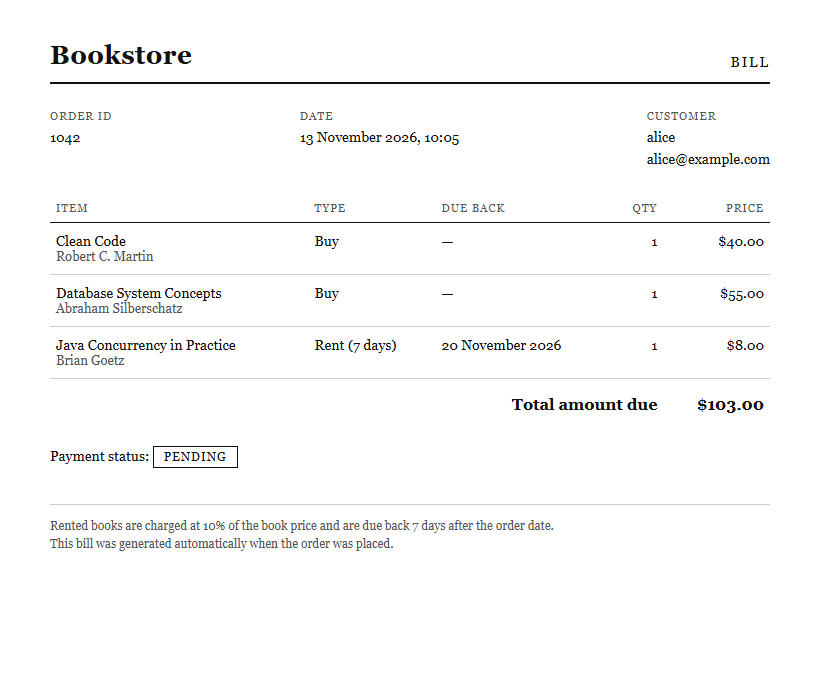
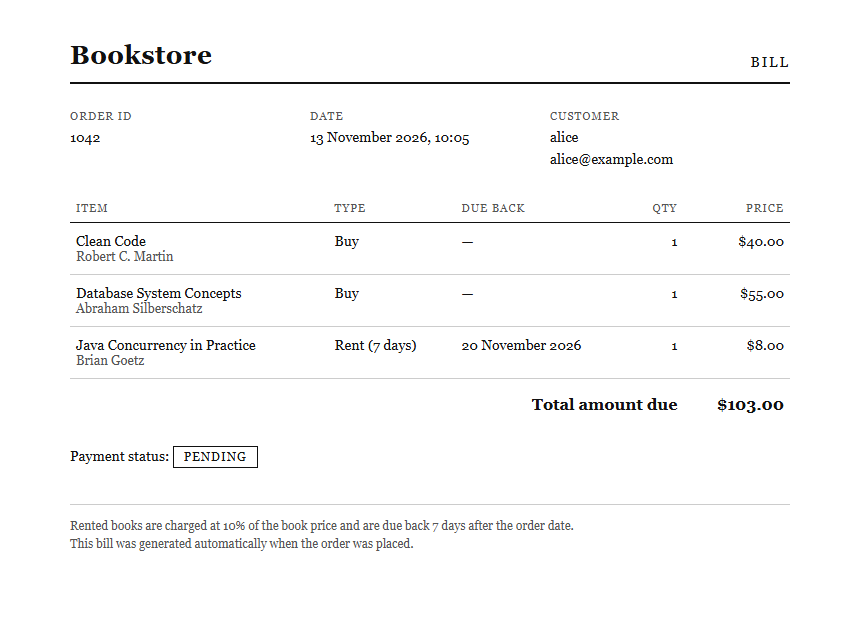
Fix the bill layout for mail programs (P-016)
The first real bill email arrived in Gmail with the heading and the order details collapsed and the typeface lost: Gmail ignores flex layout and styles on body. The bill now lays those out with tables and styles a wrapper. A test fails if either comes back. The design sample is now produced by the service's own renderer.

Verified: 88 tests pass; the bill looks right in a browser (docs/02-design/bill/bill-sample.png); a second real email was accepted by Gmail. Not verified: how it looks in the inbox.

diff --git a/docs/02-design/bill/bill-sample.html b/docs/02-design/bill/bill-sample.html
@@ -4,37 +4,40 @@
 <meta charset="utf-8">
 <title>Bill — Order 1042</title>
 <style>
-  body { font-family: Georgia, "Times New Roman", serif; color: #111; max-width: 720px; margin: 40px auto; padding: 0 24px; }
-  header { display: flex; justify-content: space-between; align-items: flex-end; border-bottom: 2px solid #111; padding-bottom: 12px; }
-  h1 { font-size: 26px; margin: 0; letter-spacing: 0.5px; }
-  .doc { font-size: 14px; text-transform: uppercase; letter-spacing: 2px; }
-  .meta { display: flex; justify-content: space-between; margin: 24px 0; font-size: 14px; line-height: 1.6; }
-  .meta strong { display: block; font-size: 11px; text-transform: uppercase; letter-spacing: 1px; color: #555; font-weight: normal; }
+  body { margin: 0; }
+  .bill { font-family: Georgia, "Times New Roman", serif; color: #111; max-width: 720px; margin: 40px auto; padding: 0 24px; }
   table { width: 100%; border-collapse: collapse; font-size: 14px; }
-  th { text-align: left; font-size: 11px; text-transform: uppercase; letter-spacing: 1px; color: #555; font-weight: normal; border-bottom: 1px solid #111; padding: 8px 6px; }
-  td { padding: 10px 6px; border-bottom: 1px solid #ccc; vertical-align: top; }
-  .num { text-align: right; white-space: nowrap; }
+  .head td { border-bottom: 2px solid #111; padding: 0 0 12px; vertical-align: bottom; }
+  h1 { font-size: 26px; margin: 0; letter-spacing: 0.5px; }
+  .doc { font-size: 14px; text-transform: uppercase; letter-spacing: 2px; text-align: right; }
+  .meta td { width: 33%; padding: 24px 12px 24px 0; line-height: 1.6; vertical-align: top; }
+  .meta strong { display: block; font-size: 11px; text-transform: uppercase; letter-spacing: 1px; color: #555; font-weight: normal; }
+  .items th { text-align: left; font-size: 11px; text-transform: uppercase; letter-spacing: 1px; color: #555; font-weight: normal; border-bottom: 1px solid #111; padding: 8px 6px; }
+  .items td { padding: 10px 6px; border-bottom: 1px solid #ccc; vertical-align: top; }
+  .items .num { text-align: right; white-space: nowrap; }
   .author { color: #555; font-size: 13px; }
-  tfoot td { border-bottom: none; font-size: 16px; font-weight: bold; padding-top: 16px; }
+  .items tfoot td { border-bottom: none; font-size: 16px; font-weight: bold; padding-top: 16px; }
   .status { margin-top: 24px; font-size: 14px; }
   .status span { border: 1px solid #111; padding: 3px 10px; text-transform: uppercase; letter-spacing: 1px; font-size: 12px; }
-  footer { margin-top: 40px; padding-top: 12px; border-top: 1px solid #ccc; font-size: 12px; color: #555; line-height: 1.5; }
-  @media print { body { margin: 0 auto; } }
+  .foot { margin-top: 40px; padding-top: 12px; border-top: 1px solid #ccc; font-size: 12px; color: #555; line-height: 1.5; }
+  @media print { .bill { margin: 0 auto; } }
 </style>
 </head>
 <body>
-  <header>
-    <h1>Bookstore</h1>
-    <div class="doc">Bill</div>
-  </header>
+<div class="bill">
+  <table class="head">
+    <tr><td><h1>Bookstore</h1></td><td class="doc">Bill</td></tr>
+  </table>
 
-  <div class="meta">
-    <div><strong>Order ID</strong>1042</div>
-    <div><strong>Date</strong>13 November 2026, 10:05</div>
-    <div><strong>Customer</strong>alice<br>alice@example.com</div>
-  </div>
+  <table class="meta">
+    <tr>
+      <td><strong>Order ID</strong>1042</td>
+      <td><strong>Date</strong>13 November 2026, 10:05</td>
+      <td><strong>Customer</strong>alice<br>alice@example.com</td>
+    </tr>
+  </table>
 
-  <table>
+  <table class="items">
     <thead>
       <tr><th>Item</th><th>Type</th><th>Due back</th><th class="num">Qty</th><th class="num">Price</th></tr>
     </thead>
@@ -50,9 +53,10 @@
 
   <p class="status">Payment status: <span>Pending</span></p>
 
-  <footer>
+  <div class="foot">
     Rented books are charged at 10% of the book price and are due back 7 days after the order date.<br>
     This bill was generated automatically when the order was placed.
-  </footer>
+  </div>
+</div>
 </body>
 </html>

diff --git a/services/order-service/order_service/bill.py b/services/order-service/order_service/bill.py
@@ -26,23 +26,27 @@ BILLS_FOLDER = "bills"
 # Written out, so the bill is in English whatever language Windows is set to.
 _MONTHS = ("January", "February", "March", "April", "May", "June", "July", "August", "September", "October", "November", "December")
 
+# The bill is also the body of an email, and mail programs show less than a browser does:
+# Gmail drops flex layout and any style placed on <body> (problem P-016). So the page's own
+# styles sit on a wrapper (.bill), and anything placed side by side is a table.
 _STYLE = """
-  body { font-family: Georgia, "Times New Roman", serif; color: #111; max-width: 720px; margin: 40px auto; padding: 0 24px; }
-  header { display: flex; justify-content: space-between; align-items: flex-end; border-bottom: 2px solid #111; padding-bottom: 12px; }
-  h1 { font-size: 26px; margin: 0; letter-spacing: 0.5px; }
-  .doc { font-size: 14px; text-transform: uppercase; letter-spacing: 2px; }
-  .meta { display: flex; justify-content: space-between; margin: 24px 0; font-size: 14px; line-height: 1.6; }
-  .meta strong { display: block; font-size: 11px; text-transform: uppercase; letter-spacing: 1px; color: #555; font-weight: normal; }
+  body { margin: 0; }
+  .bill { font-family: Georgia, "Times New Roman", serif; color: #111; max-width: 720px; margin: 40px auto; padding: 0 24px; }
   table { width: 100%; border-collapse: collapse; font-size: 14px; }
-  th { text-align: left; font-size: 11px; text-transform: uppercase; letter-spacing: 1px; color: #555; font-weight: normal; border-bottom: 1px solid #111; padding: 8px 6px; }
-  td { padding: 10px 6px; border-bottom: 1px solid #ccc; vertical-align: top; }
-  .num { text-align: right; white-space: nowrap; }
+  .head td { border-bottom: 2px solid #111; padding: 0 0 12px; vertical-align: bottom; }
+  h1 { font-size: 26px; margin: 0; letter-spacing: 0.5px; }
+  .doc { font-size: 14px; text-transform: uppercase; letter-spacing: 2px; text-align: right; }
+  .meta td { width: 33%; padding: 24px 12px 24px 0; line-height: 1.6; vertical-align: top; }
+  .meta strong { display: block; font-size: 11px; text-transform: uppercase; letter-spacing: 1px; color: #555; font-weight: normal; }
+  .items th { text-align: left; font-size: 11px; text-transform: uppercase; letter-spacing: 1px; color: #555; font-weight: normal; border-bottom: 1px solid #111; padding: 8px 6px; }
+  .items td { padding: 10px 6px; border-bottom: 1px solid #ccc; vertical-align: top; }
+  .items .num { text-align: right; white-space: nowrap; }
   .author { color: #555; font-size: 13px; }
-  tfoot td { border-bottom: none; font-size: 16px; font-weight: bold; padding-top: 16px; }
+  .items tfoot td { border-bottom: none; font-size: 16px; font-weight: bold; padding-top: 16px; }
   .status { margin-top: 24px; font-size: 14px; }
   .status span { border: 1px solid #111; padding: 3px 10px; text-transform: uppercase; letter-spacing: 1px; font-size: 12px; }
-  footer { margin-top: 40px; padding-top: 12px; border-top: 1px solid #ccc; font-size: 12px; color: #555; line-height: 1.5; }
-  @media print { body { margin: 0 auto; } }
+  .foot { margin-top: 40px; padding-top: 12px; border-top: 1px solid #ccc; font-size: 12px; color: #555; line-height: 1.5; }
+  @media print { .bill { margin: 0 auto; } }
 """
 
 
@@ -81,18 +85,20 @@ def render_bill(order: Order) -> str:
 <style>{_STYLE}</style>
 </head>
 <body>
-  <header>
-    <h1>Bookstore</h1>
-    <div class="doc">Bill</div>
-  </header>
+<div class="bill">
+  <table class="head">
+    <tr><td><h1>Bookstore</h1></td><td class="doc">Bill</td></tr>
+  </table>
 
-  <div class="meta">
-    <div><strong>Order ID</strong>{order.id}</div>
-    <div><strong>Date</strong>{_moment(order.created_at)}</div>
-    <div><strong>Customer</strong>{escape(order.username)}<br>{escape(order.email)}</div>
-  </div>
+  <table class="meta">
+    <tr>
+      <td><strong>Order ID</strong>{order.id}</td>
+      <td><strong>Date</strong>{_moment(order.created_at)}</td>
+      <td><strong>Customer</strong>{escape(order.username)}<br>{escape(order.email)}</td>
+    </tr>
+  </table>
 
-  <table>
+  <table class="items">
     <thead>
       <tr><th>Item</th><th>Type</th><th>Due back</th><th class="num">Qty</th><th class="num">Price</th></tr>
     </thead>
@@ -106,10 +112,11 @@ def render_bill(order: Order) -> str:
 
   <p class="status">Payment status: <span>Pending</span></p>
 
-  <footer>
+  <div class="foot">
     Rented books are charged at {RENT_RATE:.0%} of the book price and are due back {RENT_DAYS} days after the order date.<br>
     This bill was generated automatically when the order was placed.
-  </footer>
+  </div>
+</div>
 </body>
 </html>
 """

diff --git a/services/order-service/tests/test_bill.py b/services/order-service/tests/test_bill.py
@@ -51,6 +51,14 @@ class RenderBillTest(unittest.TestCase):
         for outside in ["<script", "<img", "<link", "http://", "https://"]:
             self.assertNotIn(outside, self.html)
 
+    def test_the_layout_uses_only_what_mail_programs_show(self):
+        # Gmail ignores flex layout and styles on <body> (problem P-016): the first real email
+        # arrived with its heading and details collapsed. Tables and a wrapper are shown everywhere.
+        self.assertNotIn("flex", self.html)
+        self.assertNotIn("body {", self.html.replace("body { margin: 0; }", ""))
+        self.assertIn('<div class="bill">', self.html)
+        self.assertIn('<td><strong>Order ID</strong>1042</td>', self.html)
+
     def test_text_from_a_book_or_a_user_cannot_become_html(self):
         from dataclasses import replace
 

diff --git a/docs/03-problems/problem-log.md b/docs/03-problems/problem-log.md
@@ -23,6 +23,7 @@ Much of this project was built with an AI coding assistant (Claude). Its mistake
 | P-013 | Small things that went wrong | Mixed | Solved |
 | P-014 | A manual check failed and left a service running | Assistant | Solved |
 | P-015 | order-service passed all its tests with faults a review then found | Assistant | Solved, with three limits left open |
+| P-016 | The first real bill email arrived with its layout broken | Assistant | Fixed; waiting for the owner to confirm in Gmail |
 
 ## How to add an entry
 
@@ -393,6 +394,26 @@ The test written for the "swapped in, in one step" fix passed before the fix was
 **Lesson**
 Tests written first prove the answers; they do not prove what happens around the answers: a rule written twice, a file read mid-write, a check that is itself wrong. Review the code before committing, as a separate step. And when a new test passes before its fix, say what it really proves instead of counting it.
 
+## P-016 — The first real bill email arrived with its layout broken
+
+- **Date found:** 2026-11-16
+- **Phase / milestone:** M3 Backend Services
+- **Issue:** #16
+- **Who:** assistant
+- **Status:** Fixed; waiting for the owner to confirm in Gmail
+
+**What happened**
+The first bill sent through Gmail arrived, with the right content, but looked wrong: "Bookstore" and "Bill" were pushed together, the Order ID, Date, and Customer were squeezed into one corner, and the serif typeface was replaced by Gmail's own. The same bill opened as a file in a browser looked right. The owner found it by opening the email and sending a screenshot.
+
+**Cause**
+The bill was designed in M2 as "one HTML file that is also the body of the email", and was only ever looked at in a browser. Mail programs show less HTML than browsers. Gmail ignores `display: flex`, which placed the heading and the details side by side, and it ignores styles put on `<body>`, which carried the typeface and the width.
+
+**Solution**
+The heading and the details are now tables, and the page's own styles sit on a wrapper inside the body. Both are shown by mail programs and browsers alike. A test fails if flex layout or a body style comes back. The sample in `docs/02-design/bill` is now produced by the service's own code, so the design sample and the real bill cannot drift apart. A second real email was sent with the new layout.
+
+**Lesson**
+"Gmail accepted it" is not "it looks right", in the same way that "it compiled" was not "it worked" (P-007). Something made to be shown in two places has to be looked at in both. This could not be checked without the owner's inbox, and was listed as not verified, which is how it was caught the same day.
+
 ## Known gaps
 
 Things that are known to be unfinished or unverified, so nobody is surprised later.
@@ -400,7 +421,7 @@ Things that are known to be unfinished or unverified, so nobody is surprised lat
 | Gap | Since | Plan |
 |---|---|---|
 | `uml.py` still writes the three diagrams that were removed, and has not been run from `tools/diagrams`. (`flows.py` was run from there on 2026-11-16 and changed only the diagram that was meant to change) | M2 | Remove the three from `uml.py`; run it once and check `git status` shows no change |
-| A real bill email was sent through Gmail on 2026-11-16 and Gmail accepted it, but how the bill looks when opened in Gmail has not been looked at | M3 | The owner opens the email; adjust the bill's HTML if Gmail shows it badly |
+| The bill's new mail-safe layout (P-016) was sent through Gmail for real (order 1041) but has not yet been looked at in the inbox. Other mail programs (Outlook, phone apps) are untested | M3 | The owner opens the second email; test others in M5 if wanted |
 | If book-service takes copies for an order but its answer does not arrive within 3 seconds, the order fails and those copies are not given back. order-service logs an error naming the book | M3 | Accept and document; a manager can correct the number of copies (FR14). Rare on one machine |
 | The MySQL tests of order-service run in the real `bookstore` database and use up order numbers, so real order ids are not consecutive | M3 | Accept, or have the owner grant the services' account a `bookstore_test` database |
 | `GET /api/orders` returns every order at once, and loads their items | M3 | Fine for a course project; add paging if the list grows |

diff --git a/services/order-service/README.md b/services/order-service/README.md
@@ -37,13 +37,13 @@ Email: bills are emailed only when `SMTP_USER` and `SMTP_PASSWORD` are filled in
 python -m unittest discover -s tests -t .
 ```
 
-87 tests:
+88 tests:
 
 | File | Tests | What |
 |---|---|---|
 | `test_api.py` | 37 | Every endpoint, success and each error, with stand-ins for the other services |
 | `test_rules.py` | 17 | The renting price, request validation, settings |
-| `test_bill.py` | 13 | What is on the bill, and saving it |
+| `test_bill.py` | 14 | What is on the bill, and saving it |
 | `test_book_catalog.py` | 7 | The client for book-service, against a small real web server that answers like it |
 | `test_mailer.py` | 5 | The email message, and that a failed send is logged and never raised |
 | `test_mysql_repository.py` | 8 | The repository against the real MySQL; skipped if MySQL is not reachable |
@@ -126,13 +126,13 @@ Routes and services raise; `errors.py` answers every failure as `{ "error": "mes
 
 Built and verified on 2026-11-16:
 
-- All 87 tests pass, including the 8 against the real MySQL.
+- All 88 tests pass, including the 8 against the real MySQL.
 - Run for real with user-service, book-service, MySQL, and MongoDB: all 33 checks returned the expected result, and no service was left running.
 - Timings on the running service: the first order after a cold start took 93 ms; every other request took 6 to 44 ms. N1 allows 500 ms.
 - With book-service stopped, placing an order answered 503 in 2.0 seconds and order-service kept running.
 
-- A real bill was sent through Gmail with `python email_check.py`: the order answered in 101 ms and Gmail accepted the email afterwards ("Emailed the bill for order 1033" in the log).
+- A real bill was sent through Gmail with `python email_check.py`: the order answered in 101 ms and Gmail accepted the email afterwards ("Emailed the bill for order 1033" in the log). That first email showed the layout broken in Gmail; it was fixed (problem P-016) and a second one sent.
 
-**Not verified:** how the bill looks when opened in Gmail. Mail programs do not show HTML exactly as a browser does; that has to be looked at in the inbox.
+**Not verified:** how the fixed bill looks when opened in Gmail. Mail programs do not show HTML exactly as a browser does; that has to be looked at in the inbox.
 
 Known limits are listed under "Known gaps" in the [problem log](../../docs/03-problems/problem-log.md).

diff --git a/CHANGELOG.md b/CHANGELOG.md
@@ -7,7 +7,7 @@ All versions and patches of the project, newest first.
 Work towards v0.3.0 (milestone M3, Backend services).
 
 ### Added
-- **order-service**: place an order with books bought or rented, the HTML bill saved as a file and emailed in the background, the manager's order list, and the payment status (FR6–FR10, FR12, FR13), with 87 tests; verified on the running service with the other two (33 checks, first order after a cold start in 93 ms). A real bill email was sent through Gmail
+- **order-service**: place an order with books bought or rented, the HTML bill saved as a file and emailed in the background, the manager's order list, and the payment status (FR6–FR10, FR12, FR13), with 88 tests; verified on the running service with the other two (33 checks, first order after a cold start in 93 ms). A real bill email was sent through Gmail
 - `services/order-service/manual_check.py`: starts all three services and checks every order endpoint for real; `email_check.py` sends one real bill email
 - Class diagram and file map for order-service
 - Engineering rules: documentation, layers, error handling, tests (`docs/02-design/engineering-rules.md`)
@@ -25,6 +25,7 @@ Work towards v0.3.0 (milestone M3, Backend services).
 - **user-service**: login, logout, session check, and registration (FR1, FR2, FR3, FR11), with bcrypt password hashing, one error format, and 26 tests; verified against MySQL
 
 ### Fixed
+- P-016: the bill email arrived in Gmail with a broken layout; the bill now uses tables instead of flex layout
 - P-005: login was too close to the 500 ms limit against the real database; user-service now uses a connection pool and warms up at start-up (login 85–255 ms, session check 7–19 ms)
 - P-004: the first request to a service by the name `localhost` took over 2 seconds; services now listen on both loopback addresses
 

diff --git a/docs/02-design/class-diagrams.md b/docs/02-design/class-diagrams.md
@@ -190,6 +190,6 @@ File map (`services/order-service/order_service/`):
 
 Also in `services/order-service/`: `manual_check.py`, which starts all three services and checks every endpoint for real, and `email_check.py`, which sends one real bill email.
 
-Tests (`services/order-service/tests/`): `test_api.py` (37: every endpoint, success and each error), `test_rules.py` (17: prices, validation, settings), `test_bill.py` (13), `test_book_catalog.py` (7: against a small real web server), `test_mailer.py` (5), `test_mysql_repository.py` (8: against the real MySQL), `fakes.py` (stand-ins for user-service, book-service, and the mail server).
+Tests (`services/order-service/tests/`): `test_api.py` (37: every endpoint, success and each error), `test_rules.py` (17: prices, validation, settings), `test_bill.py` (14), `test_book_catalog.py` (7: against a small real web server), `test_mailer.py` (5), `test_mysql_repository.py` (8: against the real MySQL), `fakes.py` (stand-ins for user-service, book-service, and the mail server).
 
 **Changes from the design overview:** the overview had `OrderService` with "repo, books, pricing, bills, mail" behind it; all five exist, each behind an interface or in its own module. Added: the request shapes with validation, the in-memory repository, the error classes, `Config`, `app.py`, and `PlacedOrder`. Changed: copies are taken before the order is saved, not after (architecture decision 16), and the email is sent in the background (decision 17).

diff --git a/docs/02-design/bill-design.md b/docs/02-design/bill-design.md
@@ -8,7 +8,7 @@ When an order is placed, order-service generates a bill, saves it as an HTML fil
 
 ![Sample bill](bill/bill-sample.png)
 
-The sample itself: [bill/bill-sample.html](bill/bill-sample.html). Open it in a browser to see it and print it. In M3 it becomes the template that order-service fills in.
+The sample itself: [bill/bill-sample.html](bill/bill-sample.html). Open it in a browser to see it and print it. Since M3 the sample is produced by order-service's own code (`order_service/bill.py`), so it is exactly what a real bill looks like.
 
 ## What is on the bill
 
@@ -28,6 +28,7 @@ The sample itself: [bill/bill-sample.html](bill/bill-sample.html). Open it in a 
 | Decision | Reason |
 |---|---|
 | One self-contained HTML file: the styles are inside it, no images, no scripts | It must open and print anywhere, and it is also the body of the email |
+| Laid out with tables, and styled through a wrapper inside the body, not with flex layout or styles on the body | Mail programs show less than browsers: Gmail ignored both, and the first real email arrived with a broken layout (problem P-016) |
 | Saved as `bills/bill-<orderId>.html` | The order ID is unique, so the file name is too |
 | Plain black on white with a serif font | It is a document to be printed and posted (FR9), not a screen |
 | The bill always says `Pending` | It is generated once, at order time. The current status lives in the database and is shown in the manager app |

diff --git a/docs/02-design/api-design.md b/docs/02-design/api-design.md
@@ -173,7 +173,7 @@ Response `200`: the updated book. Errors: `400` the change is not a whole number
 
 ## order-service — `http://localhost:8083`
 
-**Status: built, tested (87 tests), and verified on the running service.** The first order after a cold start answered in 93 ms; other requests in 6–44 ms. Also answers `503` when user-service, book-service, or MySQL is not available, and `404` / `405` for an unknown address or a wrong method.
+**Status: built, tested (88 tests), and verified on the running service.** The first order after a cold start answered in 93 ms; other requests in 6–44 ms. Also answers `503` when user-service, book-service, or MySQL is not available, and `404` / `405` for an unknown address or a wrong method.
 
 ### POST `/api/orders` — customer
 
